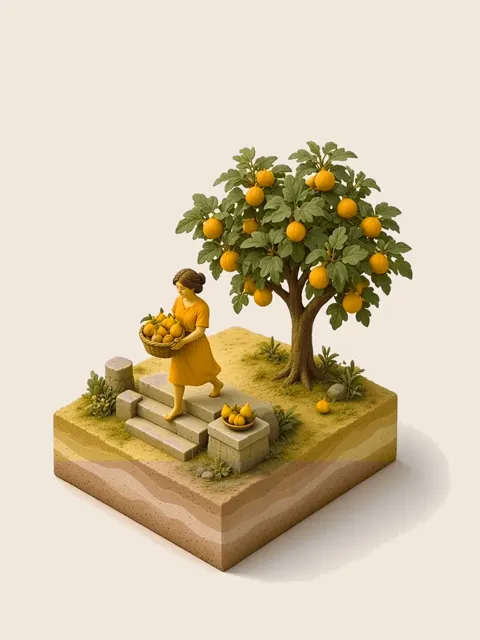
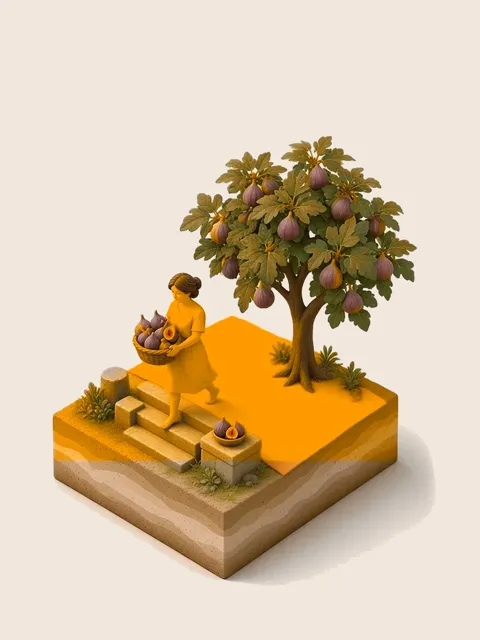
给第三批词根换上插画，并重画 curr、press、fer。 (#5)
新的十二张替换奶油色占位。三张重画换掉图、缩略图和测得的签名色。有插画的词根一共 66 条。图鉴仍只叠已收集的，进度仍按 250 计。

Changed region(s): [[0.0938, 0.1875, 0.875, 0.9375], [0.9062, 0.7188, 0.9375, 0.75]]

diff --git a/src/data/rootColors.ts b/src/data/rootColors.ts
@@ -54,17 +54,29 @@ export const rootColors: Record<string, RootColor> = {
   aster: { hue: 271.3, accent: '#869AE0', deep: '#445285', wash: '#EAEFFF', skyTop: '#DFE7FF', skyBottom: '#F8F5FF', spark: '#CEBD8A', steps: ['#F9FAFE', '#F3F5FC', '#EAEFFF', '#E4EAFF', '#D9E2FF', '#CDD9FF', '#B4C4F7', '#9AACEA', '#869AE0', '#7183C2', '#445285', '#2C3659'] },
   meter: { hue: 154.7, accent: '#65B181', deep: '#286340', wash: '#E3F5E8', skyTop: '#D4F0DC', skyBottom: '#ECFAF8', spark: '#DBADD0', steps: ['#F8FBF9', '#F0F8F2', '#E3F5E8', '#DBF2E2', '#CEECD7', '#BFE6CB', '#9FD5B0', '#7FC195', '#65B181', '#52986C', '#286340', '#194229'] },
   pos: { hue: 261.7, accent: '#7A9EE0', deep: '#3B5585', wash: '#E8F0FF', skyTop: '#DCE9FF', skyBottom: '#F7F5FF', spark: '#D5BA8A', steps: ['#F9FAFE', '#F2F6FC', '#E8F0FF', '#E0EBFF', '#D5E4FF', '#C7DBFF', '#ABC7F7', '#8FB0EA', '#7A9EE0', '#6586C2', '#3B5585', '#263859'] },
-  fer: { hue: 83.2, accent: '#D1AB5F', deep: '#6D5006', wash: '#F8EFDD', skyTop: '#F5E6CA', skyBottom: '#F6F8ED', spark: '#A6BEEC', steps: ['#FCFAF7', '#F9F5EE', '#F8EFDD', '#F5E9D3', '#F1E1C4', '#ECD8B3', '#DDC28E', '#CBAA69', '#D1AB5F', '#A3813A', '#6D5006', '#48350A'] },
+  fer: { hue: 69.4, accent: '#C89251', deep: '#744C18', wash: '#FBEDDE', skyTop: '#FAE4CC', skyBottom: '#F9F7EC', spark: '#9BC2EA', steps: ['#FDFAF7', '#FAF4EE', '#FBEDDE', '#F9E8D4', '#F6DFC6', '#F2D5B5', '#E6BE91', '#D5A56D', '#C89251', '#AD7B40', '#744C18', '#4D320E'] },
   ten: { hue: 191.0, accent: '#39B3AE', deep: '#006360', wash: '#DEF6F4', skyTop: '#CAF1EE', skyBottom: '#ECF9FE', spark: '#E7ACB3', steps: ['#F7FCFB', '#EEF8F7', '#DEF6F4', '#D4F2F0', '#C4EDEA', '#B2E6E3', '#8BD6D1', '#61C2BD', '#39B3AE', '#259995', '#006360', '#00423F'] },
   fac: { hue: 49.2, accent: '#D38A62', deep: '#7B4628', wash: '#FFEBE1', skyTop: '#FFE1D1', skyBottom: '#FCF6EC', spark: '#8EC7E2', steps: ['#FDF9F7', '#FBF4F0', '#FFEBE1', '#FEE5D8', '#FCDCCB', '#F9D1BC', '#EFB89B', '#DF9E7B', '#D38A62', '#B6744F', '#7B4628', '#522D19'] },
   ven: { hue: 317.6, accent: '#B989C9', deep: '#694674', wash: '#F7EBFB', skyTop: '#F3E0FA', skyBottom: '#FFF3F9', spark: '#A8C99D', steps: ['#FCF9FD', '#F8F3FA', '#F7EBFB', '#F4E5F9', '#EFDBF6', '#EAD0F2', '#DAB7E6', '#C89DD6', '#B989C9', '#9F73AD', '#694674', '#462D4D'] },
   sta: { hue: 229.6, accent: '#4EAAD2', deep: '#0D5E7B', wash: '#E0F3FE', skyTop: '#CEEEFE', skyBottom: '#F2F7FF', spark: '#E4B196', steps: ['#F7FBFD', '#EFF7FB', '#E0F3FE', '#D6F0FC', '#C8E9FA', '#B7E2F8', '#92D0ED', '#6DBADE', '#4EAAD2', '#3C91B6', '#0D5E7B', '#083E52'] },
   ced: { hue: 31.2, accent: '#D78575', deep: '#7E4237', wash: '#FFEBE6', skyTop: '#FFE0D9', skyBottom: '#FFF5ED', spark: '#87CAD7', steps: ['#FEF9F8', '#FCF3F1', '#FFEBE6', '#FFE4DE', '#FEDAD2', '#FCCEC5', '#F2B4A8', '#E3998B', '#D78575', '#BA6F62', '#7E4237', '#542B23'] },
-  press: { hue: 122.8, accent: '#92A95D', deep: '#4D5D23', wash: '#ECF3E1', skyTop: '#E3EDD0', skyBottom: '#F0FAF2', spark: '#C6B3E4', steps: ['#FAFBF7', '#F4F7EF', '#ECF3E1', '#E7EFD7', '#DEE8CA', '#D4E1BA', '#BCCE98', '#A4B977', '#92A95D', '#7C904B', '#4D5D23', '#323D15'] },
-  curr: { hue: 10.3, accent: '#D6828F', deep: '#7D404A', wash: '#FFEAEC', skyTop: '#FFDFE2', skyBottom: '#FFF4F0', spark: '#88CDC8', steps: ['#FEF9FA', '#FCF3F4', '#FFEAEC', '#FFE3E6', '#FED8DD', '#FCCCD2', '#F2B2BA', '#E397A1', '#D6828F', '#B96D79', '#7D404A', '#542930'] },
+  press: { hue: 128.2, accent: '#8BAB62', deep: '#475E27', wash: '#EBF3E2', skyTop: '#E0EED1', skyBottom: '#EFFAF3', spark: '#CAB2E1', steps: ['#F9FBF8', '#F3F7F0', '#EBF3E2', '#E4EFD9', '#DBE9CC', '#D0E2BC', '#B7D09C', '#9EBB7B', '#8BAB62', '#759250', '#475E27', '#2E3E18'] },
+  curr: { hue: 13.6, accent: '#D7828B', deep: '#7E4047', wash: '#FFEAEB', skyTop: '#FFDFE1', skyBottom: '#FFF4F0', spark: '#87CCCA', steps: ['#FEF9F9', '#FCF3F3', '#FFEAEB', '#FFE3E5', '#FED9DB', '#FCCDD0', '#F2B2B7', '#E3979E', '#D7828B', '#BA6D75', '#7E4047', '#54292E'] },
   gress: { hue: 279.0, accent: '#9097DF', deep: '#4C5084', wash: '#ECEFFF', skyTop: '#E2E6FF', skyBottom: '#FAF4FF', spark: '#C9BF8B', steps: ['#FAFAFE', '#F4F5FC', '#ECEFFF', '#E6E9FF', '#DDE1FF', '#D2D7FF', '#BBC1F6', '#A2A9E9', '#9097DF', '#7A80C1', '#4C5084', '#313458'] },
   ag: { hue: 144.2, accent: '#74AF74', deep: '#366236', wash: '#E6F5E6', skyTop: '#D8EFD8', skyBottom: '#EDFAF6', spark: '#D5AFD7', steps: ['#F8FBF8', '#F2F7F1', '#E6F5E6', '#DFF1DE', '#D3EBD2', '#C6E4C4', '#A9D3A7', '#8BBF8A', '#74AF74', '#609660', '#366236', '#224122'] },
   gen: { hue: 45.7, accent: '#D48965', deep: '#7C452B', wash: '#FFEBE2', skyTop: '#FFE1D3', skyBottom: '#FDF6EC', spark: '#8CC8E0', steps: ['#FEF9F8', '#FCF4F0', '#FFEBE2', '#FEE5D9', '#FCDBCC', '#FAD0BD', '#F0B79D', '#E09D7E', '#D48965', '#B77353', '#7C452B', '#532D1B'] },
+  leg: { hue: 142.1, accent: '#77AF72', deep: '#386134', wash: '#E7F4E5', skyTop: '#D9EFD7', skyBottom: '#EDFAF6', spark: '#D4AFD9', steps: ['#F9FBF8', '#F2F7F1', '#E7F4E5', '#DFF1DD', '#D4EBD1', '#C7E4C3', '#AAD3A6', '#8EBE88', '#77AF72', '#63955E', '#386134', '#244021'] },
+  reg: { hue: 328.8, accent: '#C286BE', deep: '#6F436D', wash: '#FAEAF8', skyTop: '#F8DFF5', skyBottom: '#FFF3F6', spark: '#9FCBA5', steps: ['#FCF9FC', '#F9F3F9', '#FAEAF8', '#F8E4F6', '#F4DAF1', '#EFCEEC', '#E2B5DE', '#D09ACC', '#C286BE', '#A771A4', '#6F436D', '#4A2C48'] },
+  plic: { hue: 267.7, accent: '#829CE0', deep: '#415385', wash: '#E9F0FF', skyTop: '#DEE8FF', skyBottom: '#F8F5FF', spark: '#D1BC8A', steps: ['#F9FAFE', '#F2F5FC', '#E9F0FF', '#E2EBFF', '#D8E3FF', '#CBDAFF', '#B0C5F7', '#96AEEA', '#829CE0', '#6D84C2', '#415385', '#2A3759'] },
+  tend: { hue: 35.4, accent: '#D78671', deep: '#7E4334', wash: '#FFEBE5', skyTop: '#FFE0D8', skyBottom: '#FEF5ED', spark: '#88CADA', steps: ['#FEF9F8', '#FCF3F1', '#FFEBE5', '#FFE4DD', '#FEDAD1', '#FCCFC3', '#F2B5A5', '#E39A87', '#D78671', '#B9705D', '#7E4334', '#542B21'] },
+  sequ: { hue: 185.1, accent: '#3EB3A7', deep: '#00645B', wash: '#DEF6F2', skyTop: '#CBF1EB', skyBottom: '#ECFAFD', spark: '#E6ABB7', steps: ['#F7FCFB', '#EEF8F6', '#DEF6F2', '#D4F2EE', '#C5EDE7', '#B3E7DF', '#8CD6CC', '#64C2B7', '#3EB3A7', '#2A998E', '#00645B', '#00423C'] },
+  clud: { hue: 300.9, accent: '#A98FD5', deep: '#5E4A7D', wash: '#F2ECFE', skyTop: '#ECE2FF', skyBottom: '#FDF3FC', spark: '#B7C593', steps: ['#FBFAFD', '#F6F4FB', '#F2ECFE', '#EEE6FE', '#E8DDFC', '#E0D3F9', '#CEBBEF', '#B9A2E1', '#A98FD5', '#9078B8', '#5E4A7D', '#3E3054'] },
+  cid: { hue: 175.7, accent: '#48B39B', deep: '#006453', wash: '#DFF6EF', skyTop: '#CDF1E7', skyBottom: '#ECFAFC', spark: '#E3ACBF', steps: ['#F7FCFA', '#EFF8F5', '#DFF6EF', '#D6F2EA', '#C7EDE2', '#B6E7D9', '#91D6C3', '#6AC3AD', '#48B39B', '#359A84', '#006453', '#024337'] },
+  cad: { hue: 100.6, accent: '#C0B361', deep: '#615609', wash: '#F3F1DE', skyTop: '#EDE9CB', skyBottom: '#F3F9EF', spark: '#B5B9EB', steps: ['#FBFBF7', '#F7F6EE', '#F3F1DE', '#EFECD4', '#E9E5C5', '#E2DCB3', '#D0C88F', '#BCB16B', '#C0B361', '#94883C', '#615609', '#40390B'] },
+  fin: { hue: 258.0, accent: '#75A0DF', deep: '#375684', wash: '#E7F1FF', skyTop: '#DAE9FF', skyBottom: '#F6F6FF', spark: '#D7B98B', steps: ['#F8FBFE', '#F1F6FC', '#E7F1FF', '#DFECFF', '#D3E5FF', '#C5DCFF', '#A8C8F7', '#8BB1EA', '#75A0DF', '#6188C1', '#375684', '#233959'] },
+  flect: { hue: 154.6, accent: '#65B181', deep: '#286340', wash: '#E4F5E8', skyTop: '#D4F0DC', skyBottom: '#ECFAF8', spark: '#DBADD0', steps: ['#F8FBF9', '#F1F8F2', '#E4F5E8', '#DBF2E1', '#CEECD7', '#BFE6CB', '#9FD5B0', '#7FC195', '#65B181', '#52986C', '#286340', '#194229'] },
+  junct: { hue: 353.2, accent: '#D182A3', deep: '#794059', wash: '#FEE9F1', skyTop: '#FFDDEA', skyBottom: '#FFF4F3', spark: '#8ECDBA', steps: ['#FDF9FB', '#FBF3F6', '#FEE9F1', '#FDE3ED', '#FBD8E5', '#F8CCDD', '#EDB2CA', '#DE97B4', '#D182A3', '#B46D8B', '#794059', '#512A3B'] },
+  loc: { hue: 25.6, accent: '#D8847C', deep: '#7E413D', wash: '#FFEAE8', skyTop: '#FFDFDC', skyBottom: '#FFF5EE', spark: '#87CBD4', steps: ['#FEF9F9', '#FCF3F2', '#FFEAE8', '#FFE4E0', '#FED9D5', '#FCCDC8', '#F3B3AD', '#E49891', '#D8847C', '#BA6E68', '#7E413D', '#542A27'] },
 };
 
 export function hasSampledColor(id: string): boolean {

diff --git a/src/data/provisional.ts b/src/data/provisional.ts
@@ -37,21 +37,45 @@ export const batchIllustrated = new Set([
   'gress',
   'ag',
   'gen',
+  'leg',
+  'reg',
+  'plic',
+  'tend',
+  'sequ',
+  'clud',
+  'cid',
+  'cad',
+  'fin',
+  'flect',
+  'junct',
+  'loc',
 ]);
 
 const batchAlt: Record<string, string> = {
   pos: '镶嵌画匠跪在半成品地面上，把小石子一块块安放成一只海豚。',
-  fer: '果园台阶上，一个女人把一篮果子扛下去，路旁放着一只盛供品的碗。',
+  fer: '无花果树下，一个人把一篮无花果扛向路旁的祭坛，台阶上铺着杏色的布。',
   ten: '罗马仓房里，箍着铁箍的陶罐装着粮食，保管人拿着一串钥匙。',
   fac: '铜匠铺里，铁匠在砧上打一把刀，墙上挂着做好的工具。',
   ven: '黄昏的路口客栈，旅人从几条路汇来，主人提着灯出来迎接。',
   sta: '城角的哨兵站在雕像旁边，对面是书贩固定的摊子。',
   ced: '一小队人穿过拱门，前面的人先走，一位长者侧身让路。',
-  press: '庄园压榨间里，长木梁压着橄榄垫，油流入石盆。',
-  curr: '赛车场的弯道上，战车绕过转弯柱，尘土扬起。',
+  press: '一枚黄绿色的印章按进蜡里，旁边是压橄榄的木梁和一块同色的布。',
+  curr: '品红色的赛道铺满底座，战车绕过转弯柱，旌旗也是品红。',
   gress: '神庙的宽台阶上，一个孩子一级级往上走，老人已经站在顶端。',
   ag: '牧人用曲杖赶着羊群，旁边露天舞台上有一个正在做手势的演员。',
   gen: '中庭里，摇篮中的婴儿上方是祖先的架子和一幅家族树壁画。',
+  leg: '橄榄树下，一个人把落果收进篮子，另一个在布上分拣，第三个人在荫凉里读卷轴。',
+  reg: '测量员在木桩之间拉直一根绳，画出新城的格子，戴冠的人在高台上看着。',
+  plic: '染坊院子里，一个人把长布折成整齐的层，旁边有编好的绳子和一只苇篮。',
+  tend: '军营里，士兵把皮帐篷的绳索拉紧，旁边有人把弓拉满。',
+  sequ: '一位罗马官员往前走，一列随从按次序跟在后面，地上留着脚印。',
+  clud: '四面拱廊围住的庭院，一个修士用大铁钥匙转动院门。',
+  cid: '伐木的空地上，一棵树被斧子干净地砍倒，树桩上放着铁剪。',
+  cad: '黄昏的果园台阶上，叶子和苹果落下，两颗骰子在台阶上翻滚。',
+  fin: '田地尽头立着一块界石，一条路消失在雾气里的山丘后面。',
+  flect: '柳枝弯向水面，水里映出树影，旁边有人把热木条弯成一个圈。',
+  junct: '十字路口，两头牛套在同一副轭下，旁边是两根梁的榫接。',
+  loc: '剖开的罗马房子里，每个房间的底座上只放一件东西：灯、锚、剑。',
 };
 
 function originOf(language: string): Origin {

diff --git a/src/lib/match.test.ts b/src/lib/match.test.ts
@@ -13,12 +13,12 @@ const authored = illustrated.filter((root) => !batchIllustrated.has(root.id));
 const batch = illustrated.filter((root) => batchIllustrated.has(root.id));
 
 describe('dataset', () => {
-  it('ships about 250 roots, with 54 paintings and the original 42 still fully written', () => {
+  it('ships about 250 roots, with 66 paintings and the original 42 still fully written', () => {
     expect(roots.length).toBe(250);
-    expect(illustrated).toHaveLength(54);
+    expect(illustrated).toHaveLength(66);
     expect(authored).toHaveLength(42);
-    expect(batch).toHaveLength(12);
-    expect(cream.length).toBe(roots.length - 54);
+    expect(batch).toHaveLength(24);
+    expect(cream.length).toBe(roots.length - 66);
     const words = roots.flatMap((root) => root.words.map((word) => word.word.toLowerCase()));
     expect(words.length).toBeGreaterThanOrEqual(300);
     expect(new Set(words).size).toBe(words.length);
@@ -117,6 +117,7 @@ describe('lookup', () => {
   it('opens a root family when the root itself is typed', () => {
     expect(lookup('spect')).toMatchObject({ kind: 'root', root: { id: 'spect' } });
     expect(lookup('pos')).toMatchObject({ kind: 'root', root: { id: 'pos', illustrated: true } });
+    expect(lookup('include')).toMatchObject({ kind: 'word', hit: { word: 'include', root: { id: 'clud', illustrated: true } } });
     expect(lookup('compose')).toMatchObject({ kind: 'word', hit: { word: 'compose', root: { id: 'pos' } } });
     expect(lookup('microbe')).toMatchObject({ kind: 'word', hit: { root: { id: 'micro', illustrated: false } } });
     expect(lookup('ped')).toMatchObject({ kind: 'root', root: { id: 'ped', illustrated: true } });

diff --git a/docs/DESIGN-LEARNINGS.md b/docs/DESIGN-LEARNINGS.md
@@ -126,3 +126,5 @@ The next pictures are drawn one at a time, then measured, then the placeholder r
 pos, fer, ten, fac, ven, sta, ced, press, curr, gress, ag, and gen leave the cream plate. Fifty-four roots now have a painting. The album is still only what you have collected, and the count is still out of 250.
 
 A signature colour has to be a block you can still read when the card is a thumbnail. A floor, a staircase, or a cloak does that. curr, ced, sta, and ven are quieter: the story is clear at full size, but the coloured area is small, so the hue goes faint in the stack. Those four can grow the colour later. The new hues are the ones measured from the pictures. The first forty-two stay where they are; a copper that already sits beside port is not pushed into another band to keep a five-degree gap.
+
+The next twelve paintings, plus redraws of curr, press, and fer, bring the illustrated set to sixty-six. Asking for a signature colour of about eight percent of the card worked on the redraws: curr's magenta track, press's wax and signet, and fer's apricot cloth are readable as thumbnails. junct is still under that, about six percent, and can grow later. The album and the count are unchanged.

diff --git a/README.md b/README.md
@@ -67,7 +67,7 @@ python3 scripts/depth_maps.py
 
 插画与代码都按 [MIT](LICENSE) 授权。
 
-图鉴里现在有 250 条词根。54 条有插画；其余先用奶油色卡片，词源故事已经写上，插画以后一张张补。
+图鉴里现在有 250 条词根。66 条有插画；其余先用奶油色卡片，词源故事已经写上，插画以后一张张补。
 
 ## 如何增加一条词根
 
